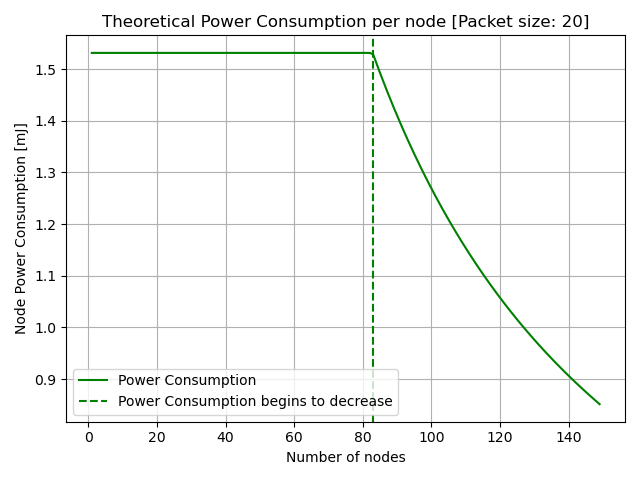
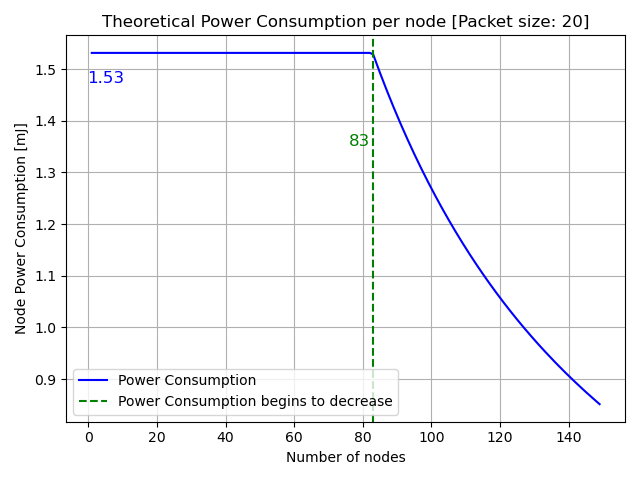
Better PySim plots

diff --git a/PySim/PowerConSim.py b/PySim/PowerConSim.py
@@ -52,9 +52,10 @@ def sim():
 
     x = list(range(1, max_number_of_nodes))
     y = power_consumption
+
     fig, ax = plt.subplots()
-    print(f"{x=},{y=}")
-    ax.plot(x, y, color="green", label="Power Consumption")
+    
+    ax.plot(x, y, color="blue", label="Power Consumption")
     ax.set_title("Theoretical Power Consumption per node " +
                  f"[Packet size: {packet_size}]")
     ax.set_xlabel("Number of nodes")
@@ -62,8 +63,16 @@ def sim():
 
     ax.axvline(power_break, linestyle="dashed",
                label="Power Consumption begins to decrease", color="green")
+    
+    ax.text(power_break - 4, power_consumption[power_break] - 0.15,
+            str(power_break), color='green',
+            fontsize=12, ha='center', va='center')
+    ax.text(5, power_consumption[0] - 0.05,
+            f"{power_consumption[0]:.2f}", color="blue",
+            fontsize=12, ha='center', va='center')
+
+    ax.legend()
     ax.grid(True)
-    plt.legend()
     fig.tight_layout()
     fig.savefig("Pplot.png")
     plt.close(fig)

diff --git a/PySim/ThroughputSim.py b/PySim/ThroughputSim.py
@@ -81,7 +81,7 @@ def sim():
     ax.axvline(packetgen_break, linestyle="dashed",
                label="More packets then we can send", color="green")
 
-    ax.text(0.5, max_throughput_for_packet_size - 0.5,
+    ax.text(max_number_of_nodes - 0.15, max_throughput_for_packet_size - 0.5,
             f"{max_throughput_for_packet_size:.2f}", color='orange',
             fontsize=12, ha='center', va='center')
     ax.text(packetgen_break - 4, -0.15,
